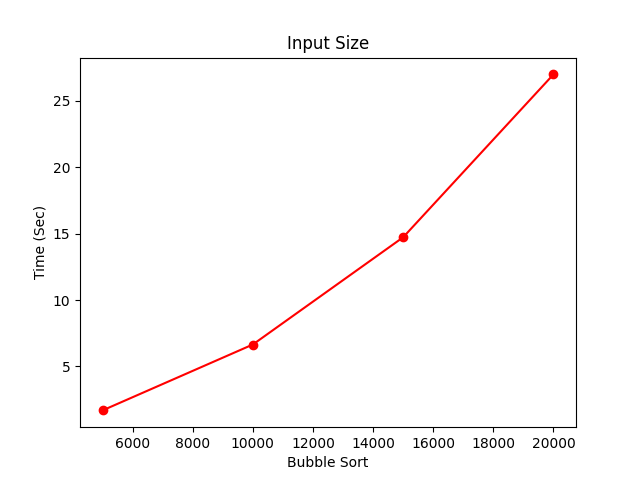
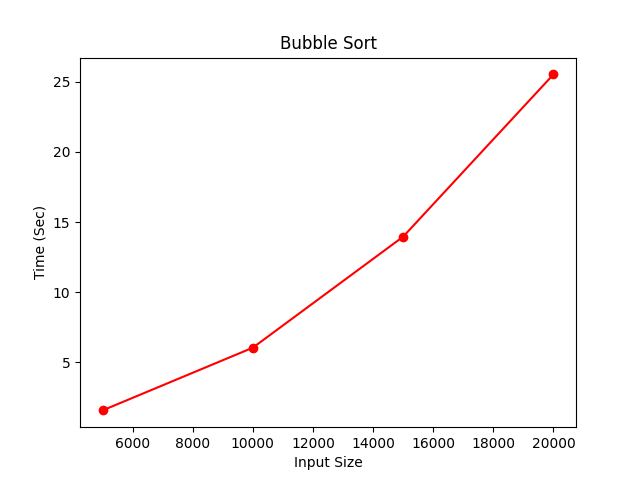
compare graph and titile fix

diff --git a/lab1/graph_plot.py b/lab1/graph_plot.py
@@ -8,11 +8,20 @@ input      b       i       s
 20000    27.002  14.393  25.538  
  """
 x_axis = [5000, 10000, 15000, 20000]
-y_axis = [1.556, 6.033, 13.955, 25.538]
+y_axis_b = [1.556, 6.033, 13.955, 25.538]
+y_axis_i = [0.857, 3.557, 7.978, 14.978]
+y_axis_s = [1.690, 6.654, 14.732, 27.002]
 
+y_variable = {"red": y_axis_b, "green": y_axis_i, "blue": y_axis_s}
+# colors = ["red", "blue", "green"]
 
-plt.plot(x_axis, y_axis, marker="o", color="green")
-plt.xlabel("Selection Sort")
+# for key, val in y_variable.items():
+#     # print(key)
+#     plt.plot(x_axis, val, marker="o", color=key)
+
+plt.plot(x_axis, y_axis_s, marker="o", color="blue")
+
+plt.xlabel("Input Size")
 plt.ylabel("Time (Sec)")
-plt.title("Input Size")
+plt.title("Selection Sort")
 plt.show()
